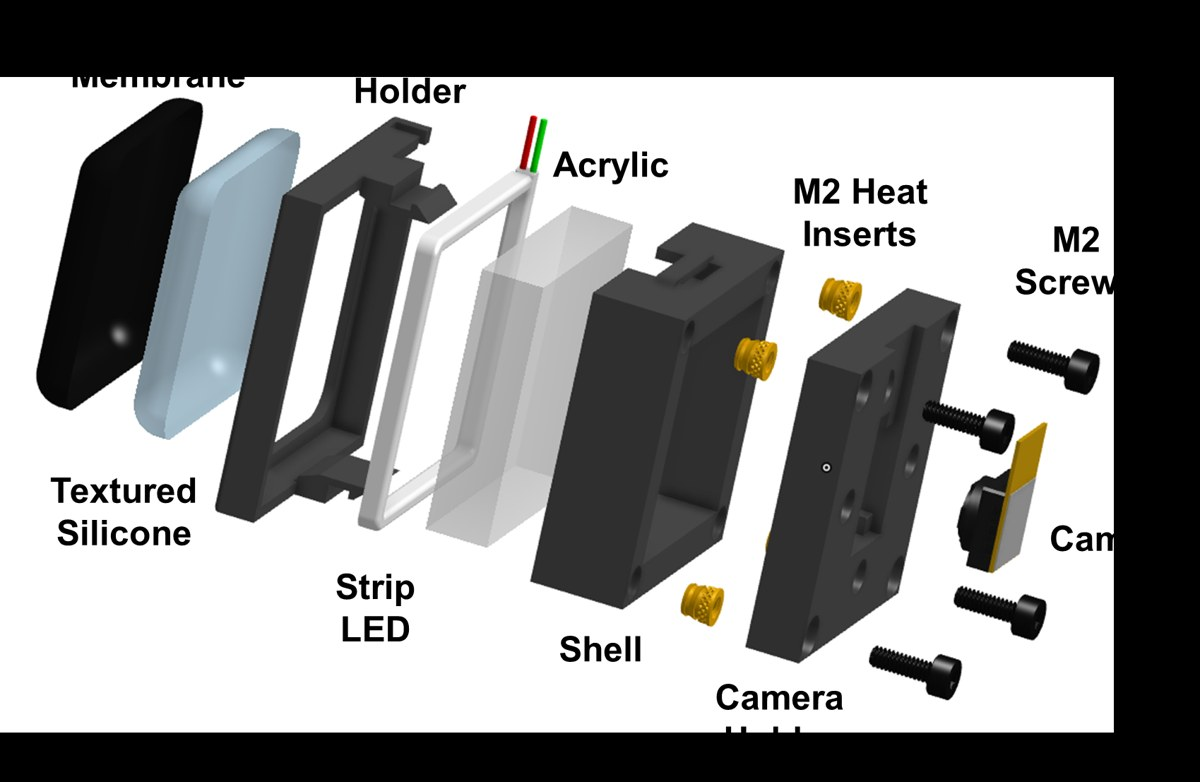
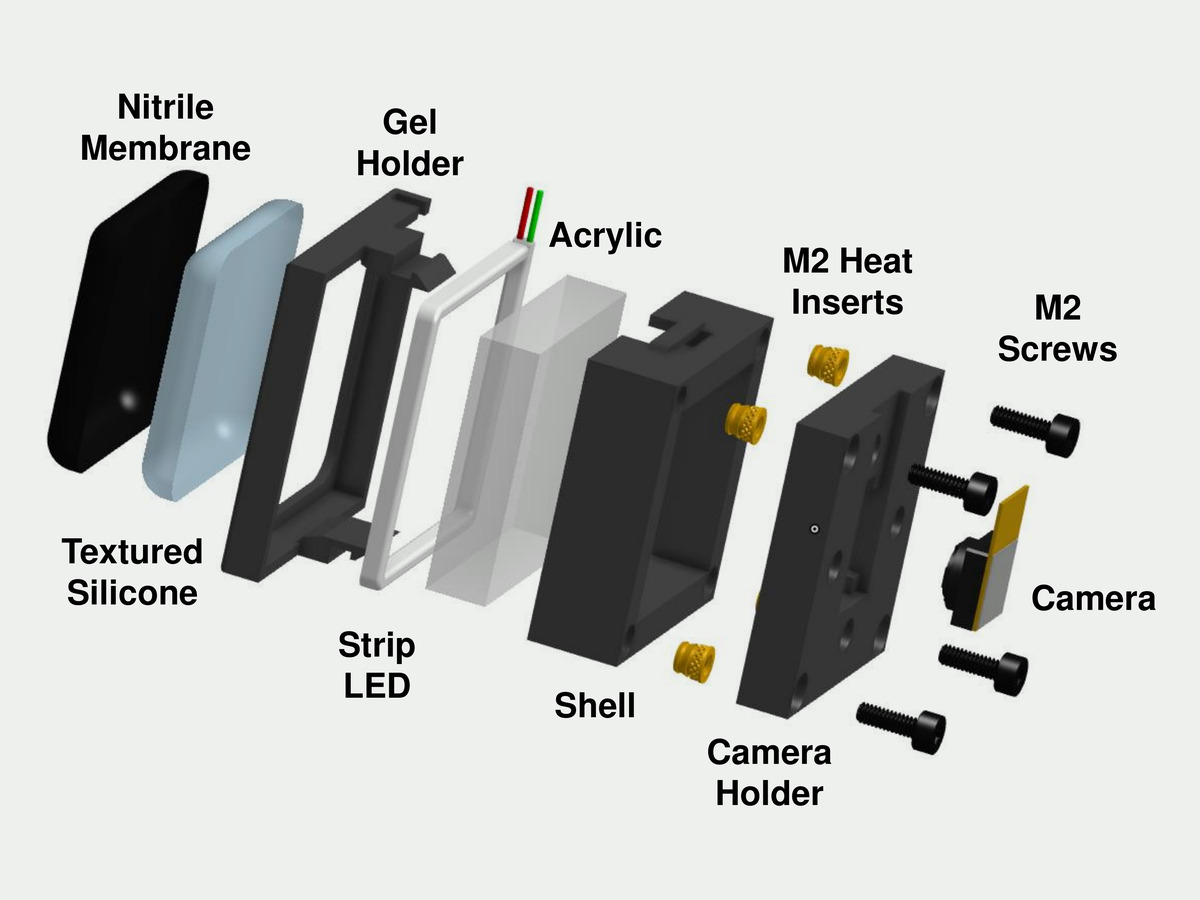
feat(assets): 1200x900 re-renders of the three exploded-view photographs
Same figures at higher resolution and with more margin; the previous
tip-exploded was a 793x483 crop.

Claude-Session: https://claude.ai/code/session_01LYgqip2X6X37qAwqMmTMN4

diff --git a/docs/superpowers/plans/2026-09-27-quieter-site-ledger.md b/docs/superpowers/plans/2026-09-27-quieter-site-ledger.md
@@ -68,10 +68,10 @@ Not done, on purpose:
 - The deep slop tier reports two pre-existing concept-02 copy findings
   (`marketing-cadence`, `em-dash-density`); frozen review artifact, untouched.
 - `design/assets/images/forms/{flat-exploded,tip-exploded,tips-in-hand}.jpg`
-  are modified in the working tree (1200x900 re-renders of the exploded
-  views, from the untracked `.impeccable/`), not part of this brief and left
-  uncommitted; `.impeccable/`, `Screenshot from 2026-09-26 23-42-08.png` and
-  `webpage.jpg` stay untracked.
+  (1200x900 re-renders of the exploded views, from the untracked
+  `.impeccable/`) were held back from the two passes above and committed on
+  the user's word afterwards; `.impeccable/`, `Screenshot from 2026-09-26
+  23-42-08.png` and `webpage.jpg` stay untracked.
 - The `Code` and `Hardware guide` pending buttons in the hero were not
   discussed and stay.
 - The phone screenshot's 980px layout is the browser's, not the page's: the
